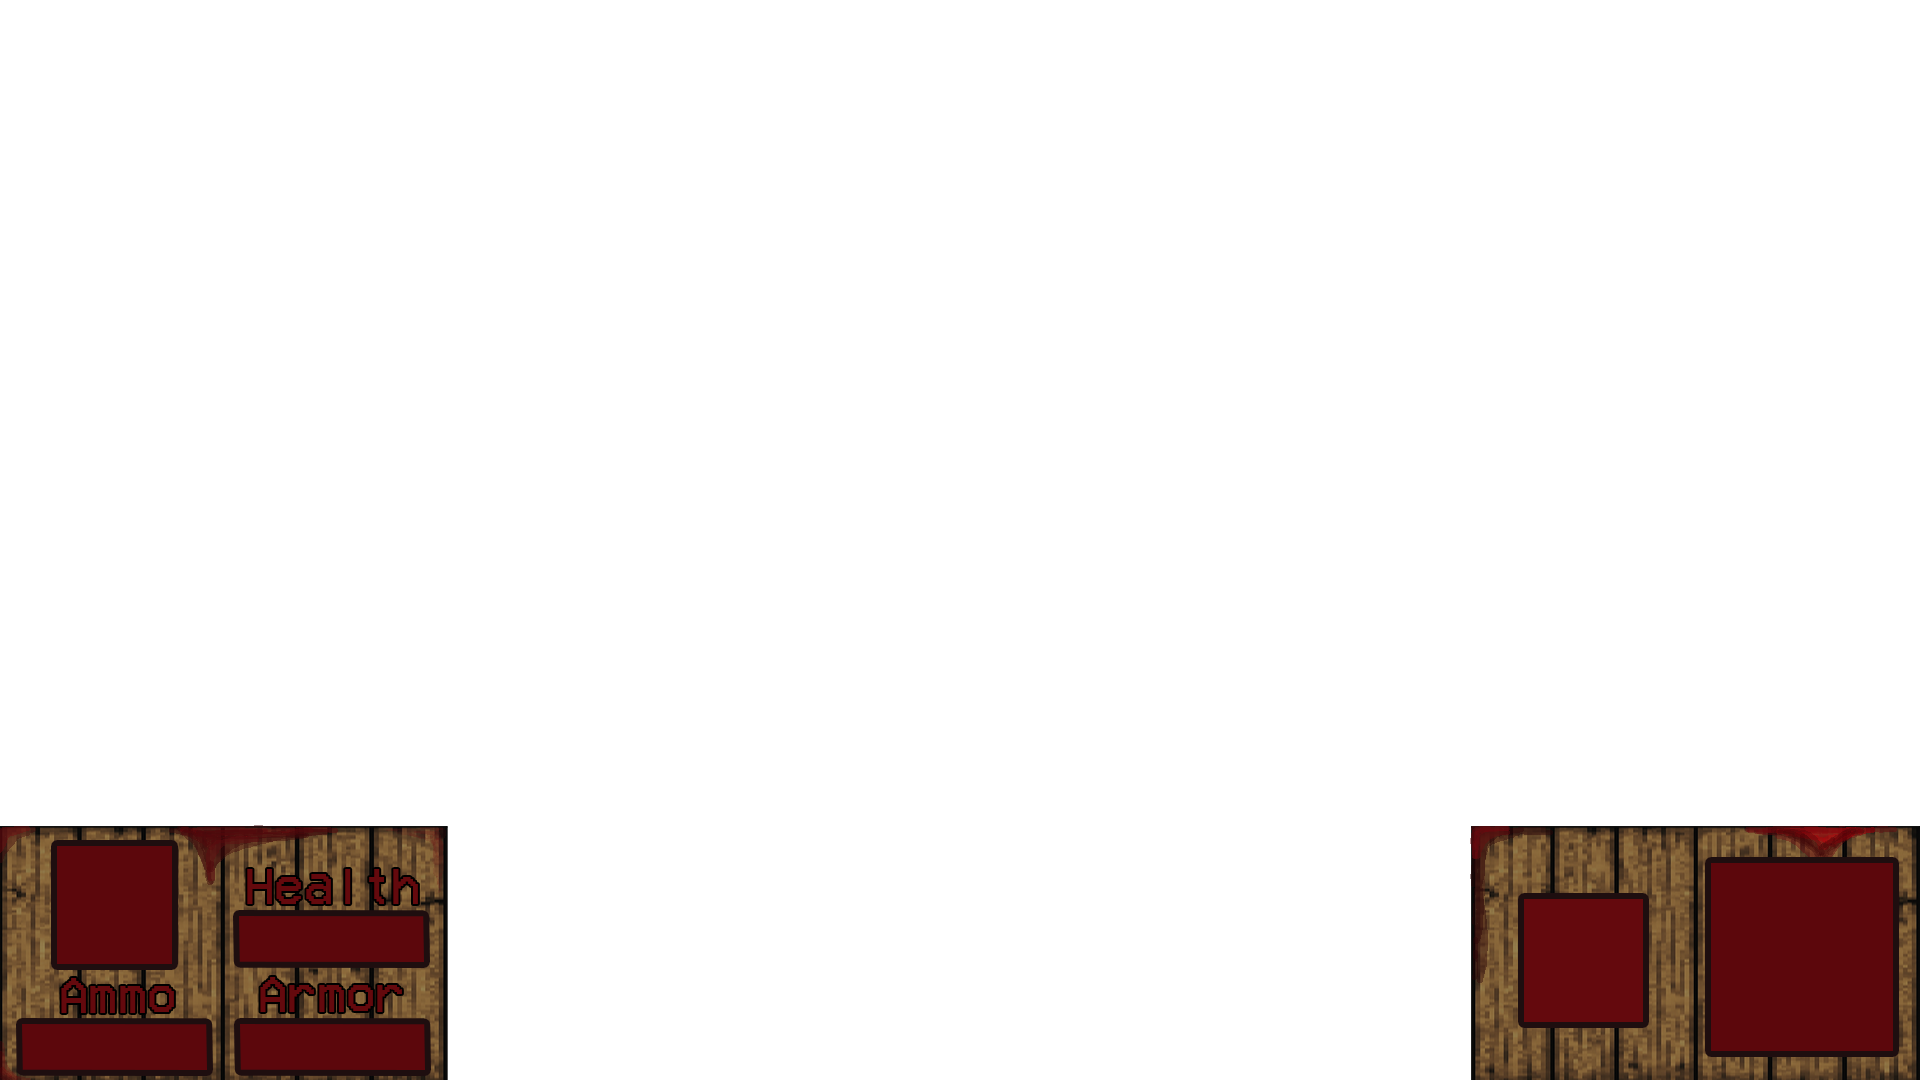
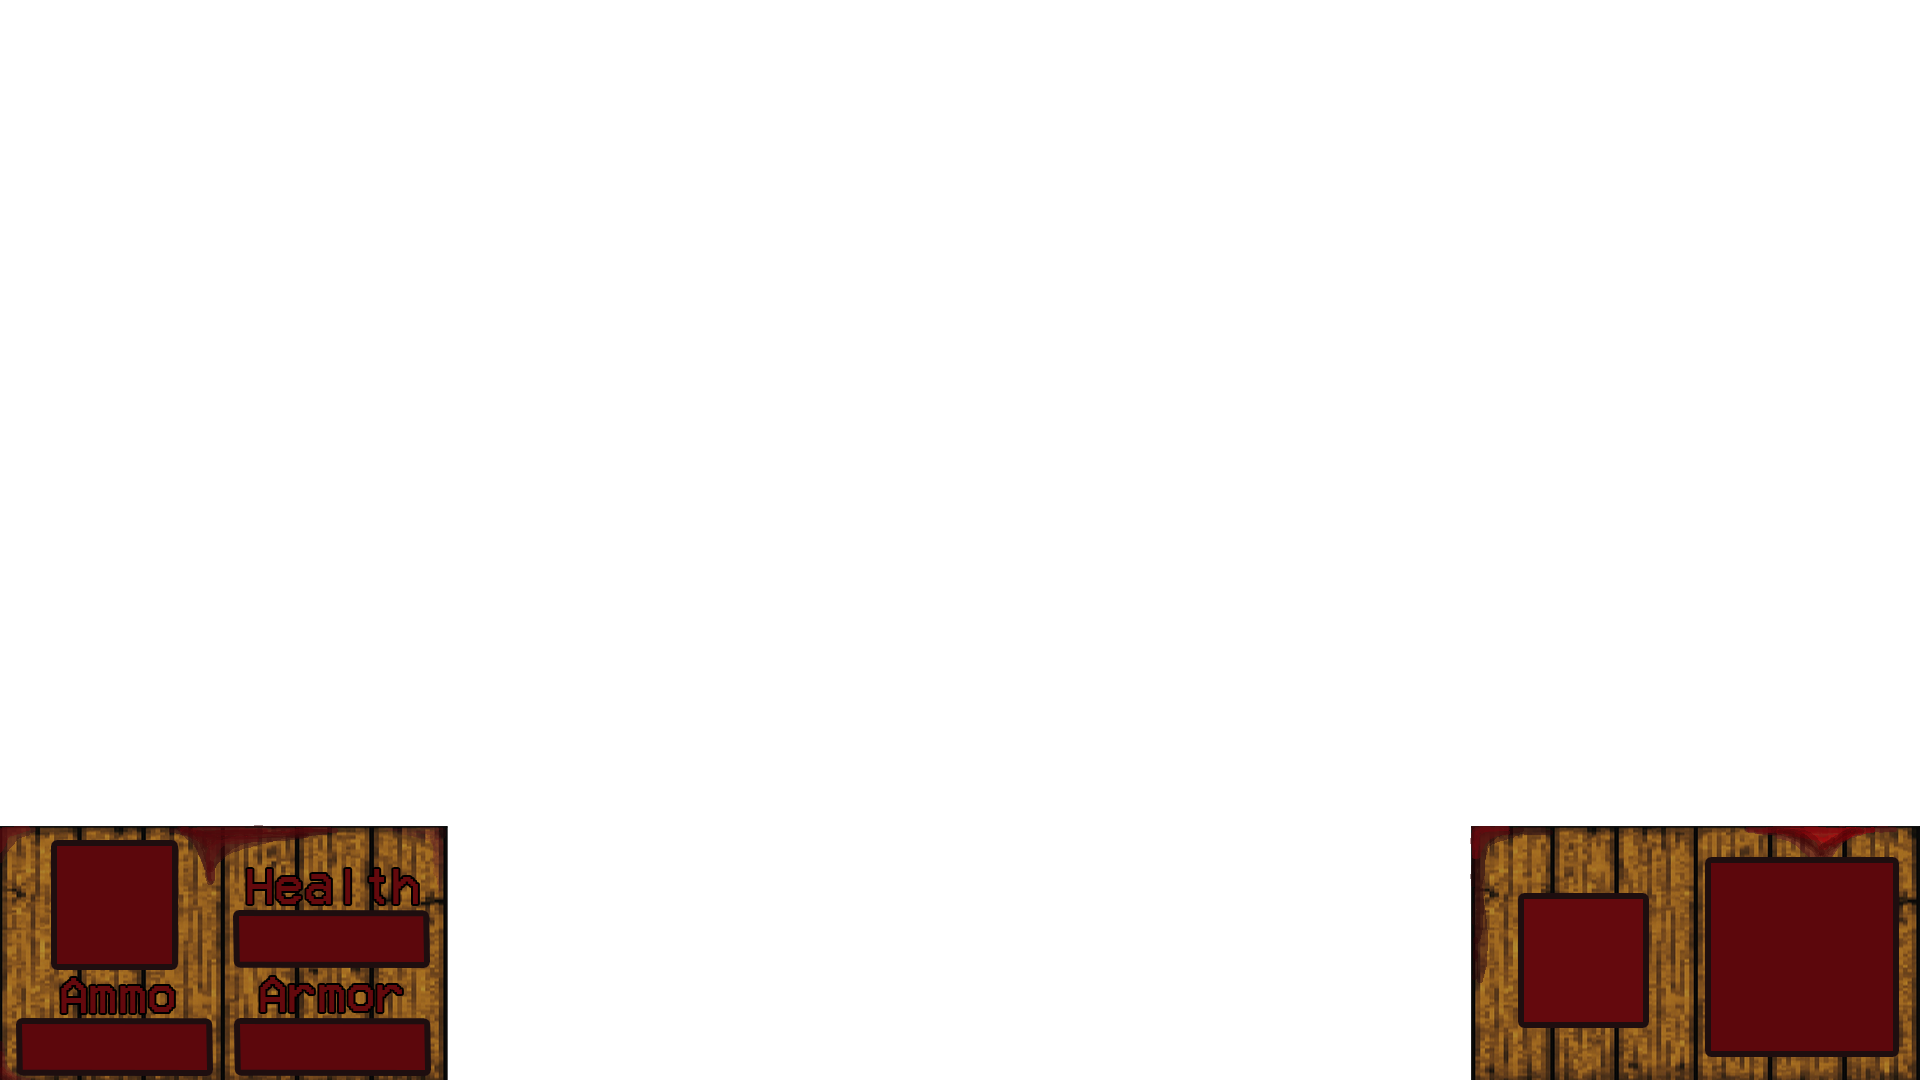
fix(music): fix music when player die

diff --git a/src/event/call_game/calls_game.c b/src/event/call_game/calls_game.c
@@ -88,6 +88,8 @@ void hp_damage(sys_data_t *sys, player_t *player)
     if (player->health <= 0){
         player->health = MAX_HP;
         set_bar(&player->bar, player);
+        sfMusic_pause(sys->scene.musics.game_music);
+        sfMusic_play(sys->scene.musics.menu_music);
         return_to_menu(sys);
     }
     if (sfKeyboard_isKeyPressed(sfKeyA) && player->health > 0){

diff --git a/include/wolfengine.h b/include/wolfengine.h
@@ -61,7 +61,7 @@
     #define DEFAULT_DIFFICULTY 0.5
     //          |           |
     #define MENU_VOL 50
-    #define GAME_VOL 0
+    #define GAME_VOL 50
     #define FOOTSTEP_VOL 50
     #define MAIN_SEC_VOL 50
     #define LEG_VOL 50
